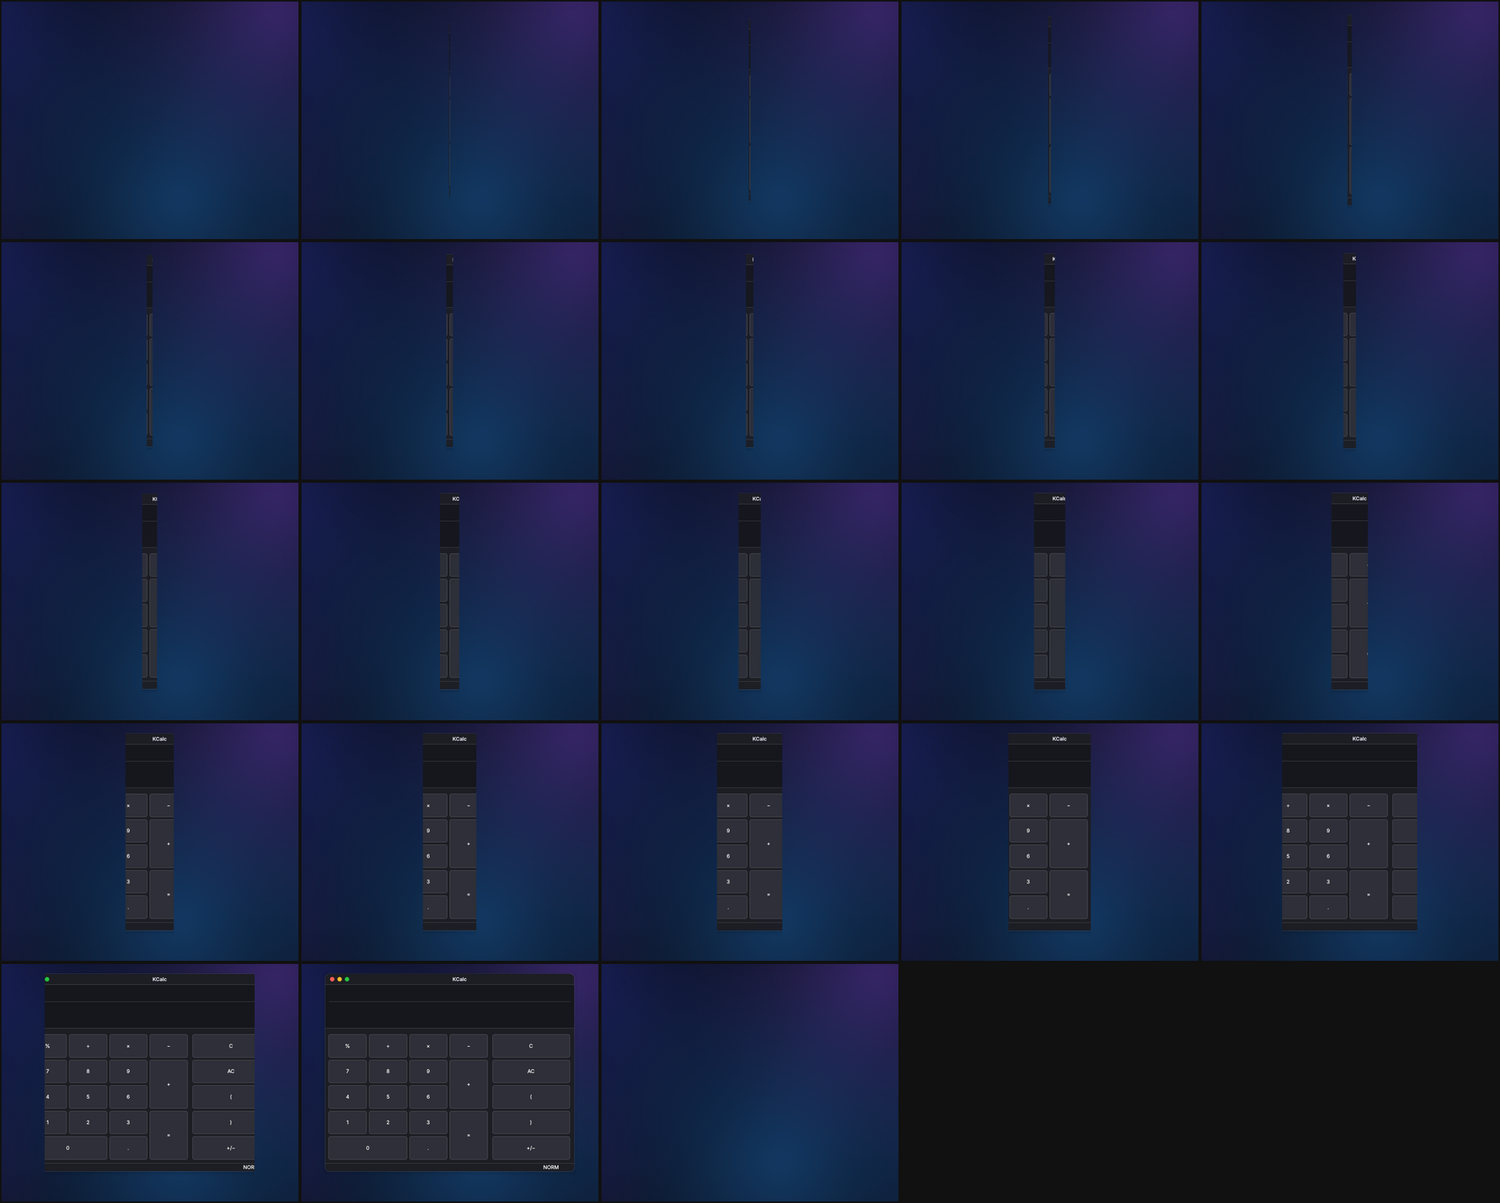
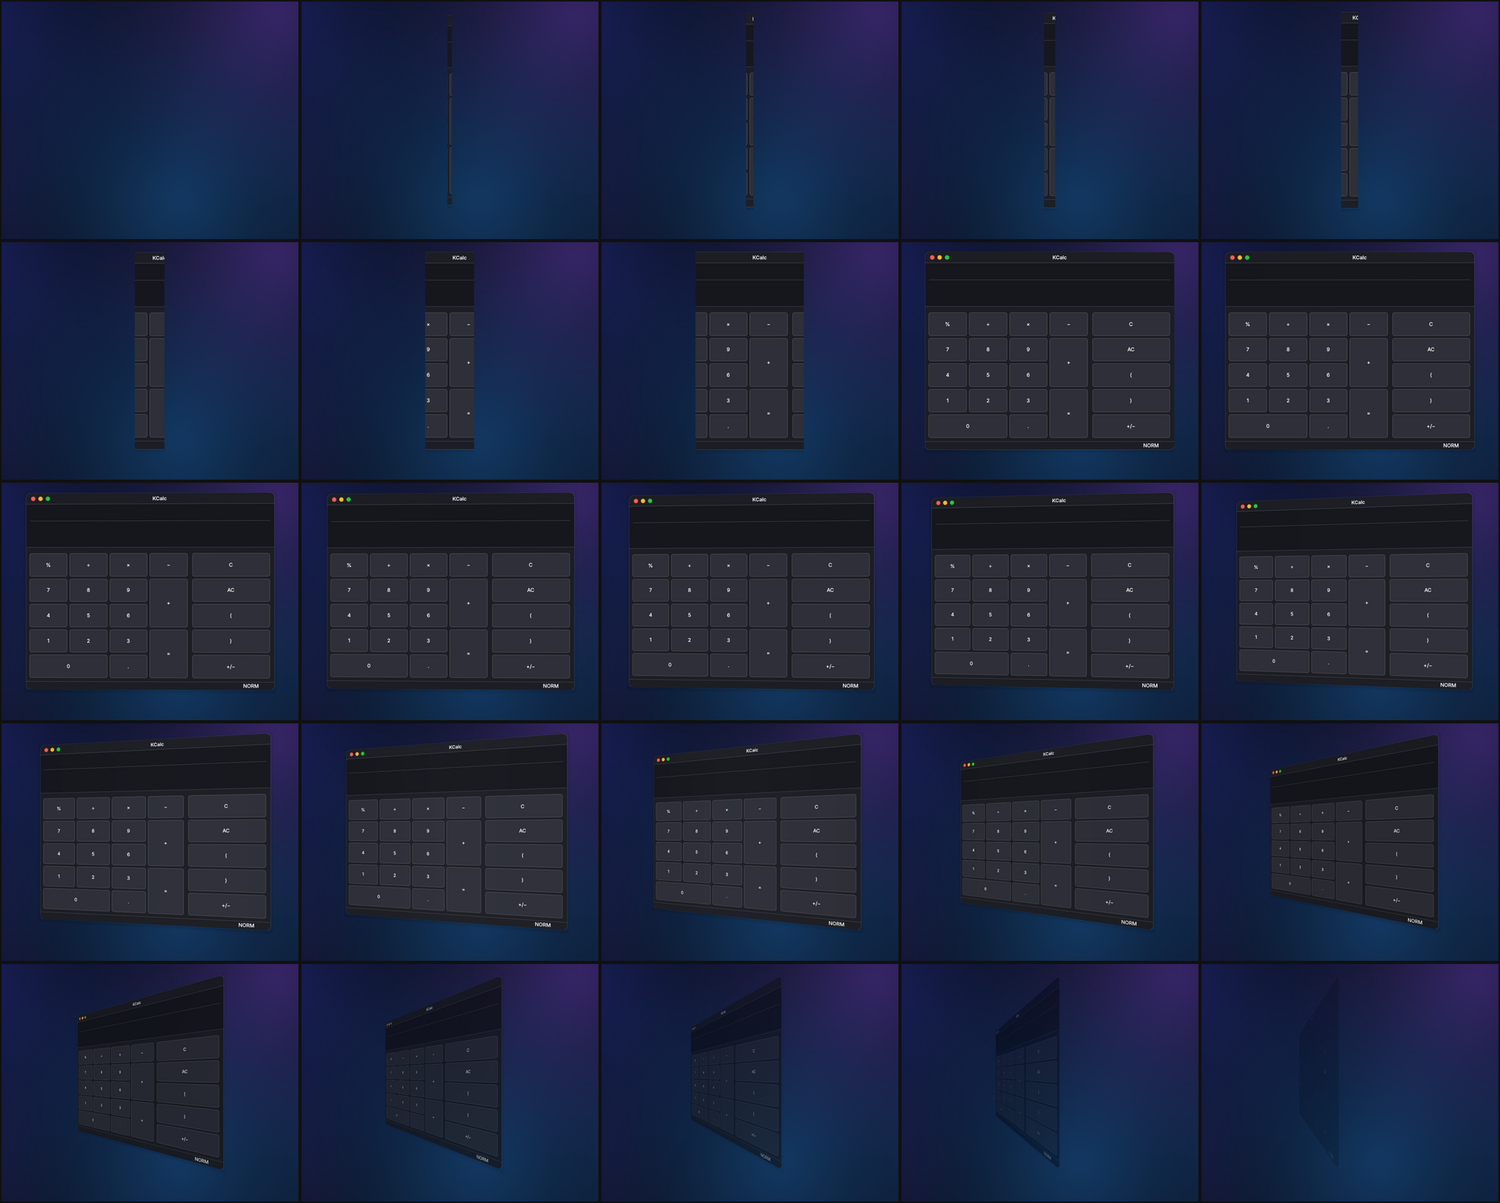
effects: taller Legacy flames, stronger cube lift and shadow, deeper perspective on the 3D close

diff --git a/desktop/rootfs/usr/share/kwin/effects/kwick_cubeslide/contents/ui/ScreenView.qml b/desktop/rootfs/usr/share/kwin/effects/kwick_cubeslide/contents/ui/ScreenView.qml
@@ -121,7 +121,7 @@ Item {
                 const c = getContext("2d");
                 c.reset();
                 for (let i = 0; i < 40; i++) {
-                    c.fillStyle = "rgba(0,0,0," + (0.03 + 0.0004 * i) + ")";
+                    c.fillStyle = "rgba(0,0,0," + (0.05 + 0.0008 * i) + ")";
                     c.fillRect(i, i, 128 - 2 * i, 128 - 2 * i);
                 }
             }
@@ -220,7 +220,7 @@ Item {
                         required property var model
                         readonly property QtObject w: model.window
                         readonly property bool plain: w.desktopWindow || w.dock
-                        readonly property real z0: plain ? (w.dock ? root.lift * 0.5 * root.pull : 0) : root.lift * root.pull * (0.7 + 0.3 * Math.min(8, Math.max(0, w.stackingOrder)) / 8) * 2.7
+                        readonly property real z0: plain ? (w.dock ? root.lift * 0.5 * root.pull : 0) : root.lift * root.pull * (0.7 + 0.3 * Math.min(8, Math.max(0, w.stackingOrder)) / 8) * 3.4
                         readonly property real cx: w.x - root.targetScreen.geometry.x + w.width / 2 - root.width / 2
                         readonly property real cy: root.height / 2 - (w.y - root.targetScreen.geometry.y + w.height / 2)
                         visible: !w.minimized
@@ -234,7 +234,7 @@ Item {
                                 lighting: PrincipledMaterial.NoLighting
                                 cullMode: Material.NoCulling
                                 alphaMode: PrincipledMaterial.Blend
-                                baseColor: Qt.rgba(1, 1, 1, 0.35 + 0.55 * root.pull)
+                                baseColor: Qt.rgba(1, 1, 1, 0.6 + 0.4 * root.pull)
                                 baseColorMap: shadowTex
                             }
                         }
